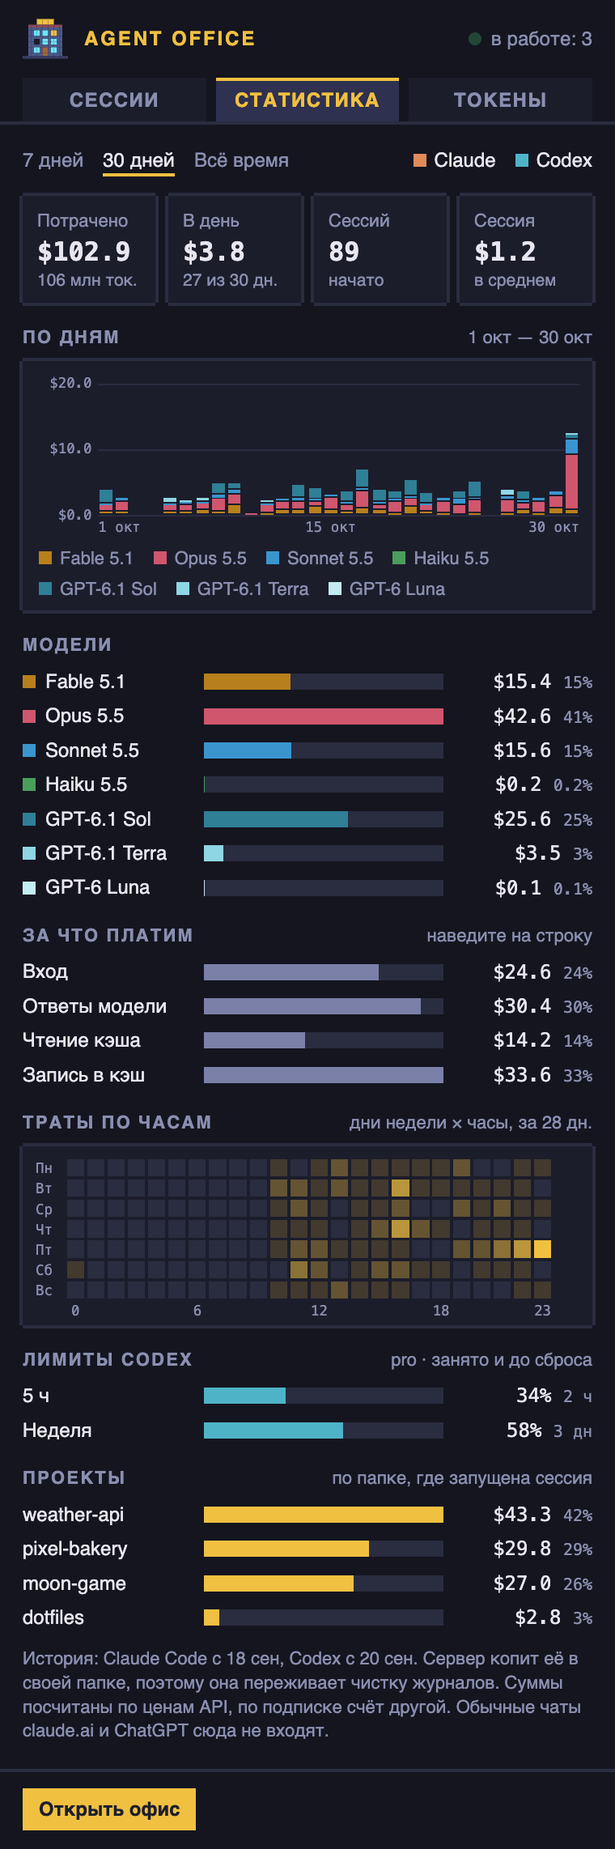
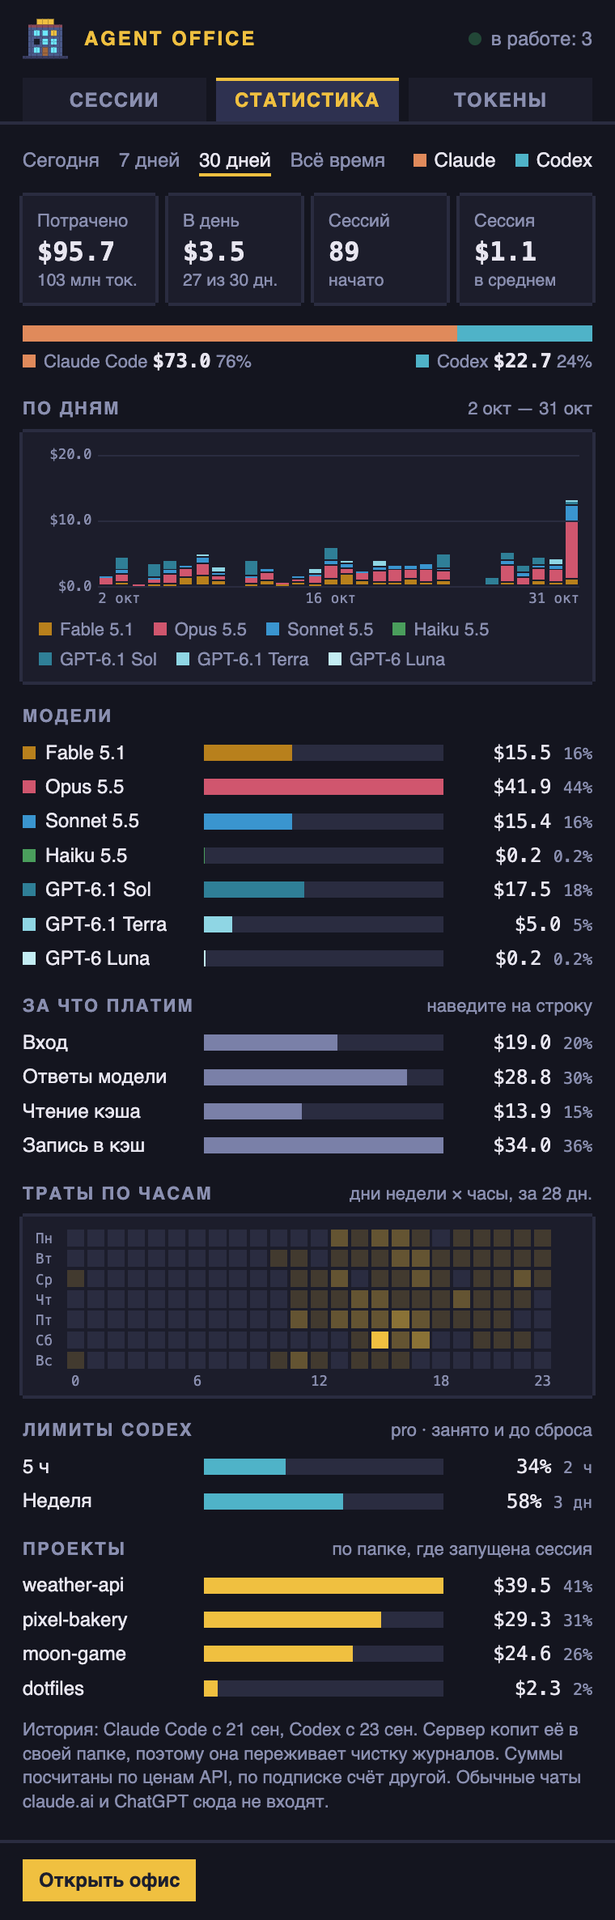
feat(menubar): show the spend split for the chosen period
The split bar hid itself whenever one provider had spent nothing today,
and the stats tab had none, so the comparison seemed to vanish. It now
always shows on the sessions tab and sits under the stats tiles, following
the period. The report sends a daily split that ignores the provider
filter, and the period is counted by the calendar, because the filter cuts
the days list at that provider's first day.

Changed region(s): [[0.0303, 0.0, 0.9684, 0.9947], [0.0303, 0.0, 0.0908, 0.0311], [0.9079, 0.0, 0.9382, 0.0311]]

diff --git a/src/menubar.ts b/src/menubar.ts
@@ -37,7 +37,7 @@ type Day = {
 
 type RateWindow = { minutes: number; used: number; resets: number }
 type Limits = { at?: string; plan?: string; windows?: RateWindow[] }
-type Stats = { since: string; last24: number; days: Day[]; hours: [string, number, number][]; first?: Partial<Record<Provider, string>>; limits?: Limits }
+type Stats = { since: string; last24: number; days: Day[]; hours: [string, number, number][]; first?: Partial<Record<Provider, string>>; limits?: Limits; split?: Record<string, Partial<Record<Provider, number>>> }
 
 type Bridge = { postMessage(msg: unknown): void }
 const bridge: Bridge | undefined = (window as any).webkit?.messageHandlers?.ao
@@ -76,6 +76,7 @@ function tokens(n: number): string {
 const MONTHS = ['янв', 'фев', 'мар', 'апр', 'мая', 'июн', 'июл', 'авг', 'сен', 'окт', 'ноя', 'дек']
 const WEEKDAYS = ['Пн', 'Вт', 'Ср', 'Чт', 'Пт', 'Сб', 'Вс']
 const parse = (day: string) => new Date(day + 'T00:00:00')
+const dayKey = (d: Date) => `${d.getFullYear()}-${String(d.getMonth() + 1).padStart(2, '0')}-${String(d.getDate()).padStart(2, '0')}`
 const short = (day: string) => { const d = parse(day); return `${d.getDate()} ${MONTHS[d.getMonth()]}` }
 const weekday = (day: string) => (parse(day).getDay() + 6) % 7
 function ago(t: number): string {
@@ -211,13 +212,27 @@ function sessionRow(s: Session, lamp: boolean): string {
     <span class="money">${money2}</span></button>`
 }
 
-// who spent today: shown once there is something to compare
-function splitBar(): string {
+// who spent what: always both, a provider at zero is an answer too
+function splitBar(claude: number, codex: number): string {
+  const all = claude + codex
+  const width = (usd: number) => all ? (usd / all) * 100 : 0
+  return `<div class="split"><i style="width:${width(claude)}%;background:var(--claude)"></i><i style="width:${width(codex)}%;background:var(--codex)"></i></div>
+    <div class="splits"><span><i style="background:var(--claude)"></i>Claude Code <b>${money(claude)}</b> ${pct(claude, all)}</span><span><i style="background:var(--codex)"></i>Codex <b>${money(codex)}</b> ${pct(codex, all)}</span></div>`
+}
+function splitToday(): string {
   const of = (p: Provider) => sessions.filter(s => s.provider === p).reduce((a, s) => a + (s.today ?? 0), 0)
-  const claude = of('claude'), codex = of('codex'), all = claude + codex
-  if (!claude || !codex) return ''
-  return `<div class="split"><i style="width:${(claude / all) * 100}%;background:var(--claude)"></i><i style="width:${(codex / all) * 100}%;background:var(--codex)"></i></div>
-    <div class="splits"><span><i style="background:var(--claude)"></i>Claude Code <b>${money(claude)}</b></span><span><i style="background:var(--codex)"></i>Codex <b>${money(codex)}</b></span></div>`
+  return splitBar(of('claude'), of('codex'))
+}
+// The chosen period counted by the calendar: a provider filter cuts the days list
+// at that provider's first day, the comparison of both must not shrink with it.
+function splitOf(today: string): string {
+  const split = stats?.split
+  if (!split) return ''
+  const start = parse(today)
+  start.setDate(start.getDate() - Number(range) + 1)
+  const from = range === 'all' ? '' : dayKey(start)
+  const of = (p: Provider) => Object.entries(split).reduce((a, [day, share]) => day >= from ? a + (share[p] ?? 0) : a, 0)
+  return splitBar(of('claude'), of('codex'))
 }
 
 function renderSessions(): string {
@@ -230,7 +245,7 @@ function renderSessions(): string {
     <div class="tile pix"><div class="k">Сегодня</div><div class="v">${money(today)}</div><div class="s">с 00:00</div></div>
     <div class="tile pix"><div class="k">В работе</div><div class="v">${busy.length ? '<span class="lamp big"></span>' : ''}${busy.length}</div><div class="s">${busy.length ? `исполнителей: ${hands}` : 'сессий'}</div></div>
   </div>`
-  html += splitBar()
+  html += splitToday()
   const live = sessions.filter(s => s.isLive).sort((a, b) => b.working - a.working || b.at - a.at)
   const rest = sessions.filter(s => !s.isLive && ((s.today ?? 0) > 0 || s.at >= midnight))
   html += `<section><h3>АКТИВНЫЕ <span class="hint">${live.length || ''}</span></h3>`
@@ -288,7 +303,7 @@ function rangeDays(all: Day[]): Day[] {
 
 // Ranges worth a button: «30 дней» says nothing new while the whole history is shorter.
 function ranges(all: Day[]): Array<[string, string]> {
-  const out: Array<[string, string]> = [['7', '7 дней']]
+  const out: Array<[string, string]> = [['1', 'Сегодня'], ['7', '7 дней']]
   if (all.length > 30) out.push(['30', '30 дней'])
   out.push(['all', 'Всё время'])
   return out
@@ -298,7 +313,7 @@ function weeks(days: Day[]): Day[] {
   const out: Day[] = []
   for (const d of days) {
     const monday = new Date(parse(d.day).getTime() - weekday(d.day) * 86400e3)
-    const key = `${monday.getFullYear()}-${String(monday.getMonth() + 1).padStart(2, '0')}-${String(monday.getDate()).padStart(2, '0')}`
+    const key = dayKey(monday)
     let w = out[out.length - 1]
     if (!w || w.day !== key) {
       w = { day: key, usd: 0, models: {}, projects: {}, parts: [0, 0, 0, 0], tokens: 0, tokParts: [0, 0, 0, 0], tokModels: {}, tokProjects: {}, sessions: 0, started: 0 }
@@ -387,8 +402,11 @@ function legend(fams: Map<Family, { usd: number; names: Set<string> }>): string 
     .map(f => `<span><i style="background:${color(f)}"></i>${[...fams.get(f)!.names].join(', ')}</span>`).join('') + '</div>'
 }
 
+// the map follows short periods, anything longer shows the last four weeks
+const heatSpan = () => range === '1' || range === '7' ? Number(range) : 28
+
 function heatmap(all: Day[]): string {
-  const span = range === '7' ? 7 : 28
+  const span = heatSpan()
   const from = all.slice(-span)[0]?.day ?? ''
   const grid: number[][] = WEEKDAYS.map(() => Array(24).fill(0))
   for (const [day, hour, usd] of stats?.hours ?? []) {
@@ -438,16 +456,20 @@ function renderStats(): string {
     <div class="tile pix"><div class="k">Сессий</div><div class="v">${started}</div><div class="s">начато</div></div>
     <div class="tile pix"><div class="k">Сессия</div><div class="v">${money(started ? total / started : 0)}</div><div class="s">в среднем</div></div>
   </div>`
+  html += splitOf(all[all.length - 1]!.day)
 
   const fams = byFamily(days)
   const byWeek = days.length > 45
   const rows = byWeek ? weeks(days) : days
   // week over week only makes sense over the whole history, not inside a 7- or 30-day window
   const wow = range === 'all' ? weekOverWeek(all) : ''
-  html += `<section><h3>${byWeek ? 'ПО НЕДЕЛЯМ' : 'ПО ДНЯМ'} <span class="hint">${byWeek && wow ? wow : span(days)}</span></h3><div class="chart pix">`
-  html += barChart(rows, r => short(r.day), (r, i) => tipOf(byWeek ? 'неделя с ' + short(r.day) : `${WEEKDAYS[weekday(r.day)]}, ${short(r.day)}`, r,
-    (byWeek ? vsPrev(rows, i) : '') + `<br>сессий: ${r.started}`))
-  html += legend(fams) + '</div></section>'
+  // one bar across the whole popover says nothing the tiles don't
+  if (days.length > 1) {
+    html += `<section><h3>${byWeek ? 'ПО НЕДЕЛЯМ' : 'ПО ДНЯМ'} <span class="hint">${byWeek && wow ? wow : span(days)}</span></h3><div class="chart pix">`
+    html += barChart(rows, r => short(r.day), (r, i) => tipOf(byWeek ? 'неделя с ' + short(r.day) : `${WEEKDAYS[weekday(r.day)]}, ${short(r.day)}`, r,
+      (byWeek ? vsPrev(rows, i) : '') + `<br>сессий: ${r.started}`))
+    html += legend(fams) + '</div></section>'
+  }
 
   // the main chart is daily here, so the weeks get their own; by week it already shows them
   const ws = weeks(all)
@@ -468,7 +490,7 @@ function renderStats(): string {
   html += barList(partNames.map((name, i) => ({ name, usd: parts[i] ?? 0, fill: '#7a80a8', tip: `<b>${name}</b><br>${partTips[i]}` })), total)
   html += '</section>'
 
-  html += `<section><h3>ТРАТЫ ПО ЧАСАМ <span class="hint">дни недели × часы, за ${range === '7' ? 7 : 28} дн.</span></h3><div class="chart pix">${heatmap(all)}</div></section>`
+  html += `<section><h3>ТРАТЫ ПО ЧАСАМ <span class="hint">дни недели × часы, за ${heatSpan()} дн.</span></h3><div class="chart pix">${heatmap(all)}</div></section>`
   html += renderLimits()
 
   const projects = new Map<string, number>()
@@ -526,10 +548,12 @@ function renderTokens(): string {
 
   const byWeek = days.length > 45
   const rows = byWeek ? weeks(days) : days
-  html += `<section><h3>${byWeek ? 'ПО НЕДЕЛЯМ' : 'ПО ДНЯМ'} <span class="hint">${span(days)}</span></h3><div class="chart pix">`
-  html += barChart(rows, r => short(r.day), r => tokenTip(byWeek ? 'неделя с ' + short(r.day) : `${WEEKDAYS[weekday(r.day)]}, ${short(r.day)}`, r),
-    104, tokByKind, tokens)
-  html += '<div class="legend">' + KINDS.map(k => `<span><i style="background:${k.fill}"></i>${k.name}</span>`).join('') + '</div></div></section>'
+  if (days.length > 1) {
+    html += `<section><h3>${byWeek ? 'ПО НЕДЕЛЯМ' : 'ПО ДНЯМ'} <span class="hint">${span(days)}</span></h3><div class="chart pix">`
+    html += barChart(rows, r => short(r.day), r => tokenTip(byWeek ? 'неделя с ' + short(r.day) : `${WEEKDAYS[weekday(r.day)]}, ${short(r.day)}`, r),
+      104, tokByKind, tokens)
+    html += '<div class="legend">' + KINDS.map(k => `<span><i style="background:${k.fill}"></i>${k.name}</span>`).join('') + '</div></div></section>'
+  }
 
   const parts = KINDS.map((k, i) => ({ name: k.name, usd: days.reduce((a, d) => a + (d.tokParts[i] ?? 0), 0), fill: k.fill, tip: `<b>${k.name}</b><br>${k.tip}` }))
   const rest = days.reduce((a, d) => a + unsplit(d), 0)

diff --git a/web/menubar.js b/web/menubar.js
@@ -45,6 +45,7 @@ function tokens(n) {
 const MONTHS = ['янв', 'фев', 'мар', 'апр', 'мая', 'июн', 'июл', 'авг', 'сен', 'окт', 'ноя', 'дек'];
 const WEEKDAYS = ['Пн', 'Вт', 'Ср', 'Чт', 'Пт', 'Сб', 'Вс'];
 const parse = (day) => new Date(day + 'T00:00:00');
+const dayKey = (d) => `${d.getFullYear()}-${String(d.getMonth() + 1).padStart(2, '0')}-${String(d.getDate()).padStart(2, '0')}`;
 const short = (day) => { const d = parse(day); return `${d.getDate()} ${MONTHS[d.getMonth()]}`; };
 const weekday = (day) => (parse(day).getDay() + 6) % 7;
 function ago(t) {
@@ -179,14 +180,28 @@ function sessionRow(s, lamp) {
     <span class="body"><div class="t">${esc(s.title)}</div><div class="p"><em>${s.provider === 'codex' ? 'CODEX' : 'CLAUDE'}</em>${esc(s.project)} · ${state}</div></span>
     <span class="money">${money2}</span></button>`;
 }
-// who spent today: shown once there is something to compare
-function splitBar() {
+// who spent what: always both, a provider at zero is an answer too
+function splitBar(claude, codex) {
+    const all = claude + codex;
+    const width = (usd) => all ? (usd / all) * 100 : 0;
+    return `<div class="split"><i style="width:${width(claude)}%;background:var(--claude)"></i><i style="width:${width(codex)}%;background:var(--codex)"></i></div>
+    <div class="splits"><span><i style="background:var(--claude)"></i>Claude Code <b>${money(claude)}</b> ${pct(claude, all)}</span><span><i style="background:var(--codex)"></i>Codex <b>${money(codex)}</b> ${pct(codex, all)}</span></div>`;
+}
+function splitToday() {
     const of = (p) => sessions.filter(s => s.provider === p).reduce((a, s) => a + (s.today ?? 0), 0);
-    const claude = of('claude'), codex = of('codex'), all = claude + codex;
-    if (!claude || !codex)
+    return splitBar(of('claude'), of('codex'));
+}
+// The chosen period counted by the calendar: a provider filter cuts the days list
+// at that provider's first day, the comparison of both must not shrink with it.
+function splitOf(today) {
+    const split = stats?.split;
+    if (!split)
         return '';
-    return `<div class="split"><i style="width:${(claude / all) * 100}%;background:var(--claude)"></i><i style="width:${(codex / all) * 100}%;background:var(--codex)"></i></div>
-    <div class="splits"><span><i style="background:var(--claude)"></i>Claude Code <b>${money(claude)}</b></span><span><i style="background:var(--codex)"></i>Codex <b>${money(codex)}</b></span></div>`;
+    const start = parse(today);
+    start.setDate(start.getDate() - Number(range) + 1);
+    const from = range === 'all' ? '' : dayKey(start);
+    const of = (p) => Object.entries(split).reduce((a, [day, share]) => day >= from ? a + (share[p] ?? 0) : a, 0);
+    return splitBar(of('claude'), of('codex'));
 }
 function renderSessions() {
     const today = sessions.reduce((a, s) => a + (s.today ?? 0), 0);
@@ -198,7 +213,7 @@ function renderSessions() {
     <div class="tile pix"><div class="k">Сегодня</div><div class="v">${money(today)}</div><div class="s">с 00:00</div></div>
     <div class="tile pix"><div class="k">В работе</div><div class="v">${busy.length ? '<span class="lamp big"></span>' : ''}${busy.length}</div><div class="s">${busy.length ? `исполнителей: ${hands}` : 'сессий'}</div></div>
   </div>`;
-    html += splitBar();
+    html += splitToday();
     const live = sessions.filter(s => s.isLive).sort((a, b) => b.working - a.working || b.at - a.at);
     const rest = sessions.filter(s => !s.isLive && ((s.today ?? 0) > 0 || s.at >= midnight));
     html += `<section><h3>АКТИВНЫЕ <span class="hint">${live.length || ''}</span></h3>`;
@@ -250,7 +265,7 @@ function rangeDays(all) {
 }
 // Ranges worth a button: «30 дней» says nothing new while the whole history is shorter.
 function ranges(all) {
-    const out = [['7', '7 дней']];
+    const out = [['1', 'Сегодня'], ['7', '7 дней']];
     if (all.length > 30)
         out.push(['30', '30 дней']);
     out.push(['all', 'Всё время']);
@@ -260,7 +275,7 @@ function weeks(days) {
     const out = [];
     for (const d of days) {
         const monday = new Date(parse(d.day).getTime() - weekday(d.day) * 86400e3);
-        const key = `${monday.getFullYear()}-${String(monday.getMonth() + 1).padStart(2, '0')}-${String(monday.getDate()).padStart(2, '0')}`;
+        const key = dayKey(monday);
         let w = out[out.length - 1];
         if (!w || w.day !== key) {
             w = { day: key, usd: 0, models: {}, projects: {}, parts: [0, 0, 0, 0], tokens: 0, tokParts: [0, 0, 0, 0], tokModels: {}, tokProjects: {}, sessions: 0, started: 0 };
@@ -344,8 +359,10 @@ function legend(fams) {
     return '<div class="legend">' + MODELS.filter(f => fams.has(f))
         .map(f => `<span><i style="background:${color(f)}"></i>${[...fams.get(f).names].join(', ')}</span>`).join('') + '</div>';
 }
+// the map follows short periods, anything longer shows the last four weeks
+const heatSpan = () => range === '1' || range === '7' ? Number(range) : 28;
 function heatmap(all) {
-    const span = range === '7' ? 7 : 28;
+    const span = heatSpan();
     const from = all.slice(-span)[0]?.day ?? '';
     const grid = WEEKDAYS.map(() => Array(24).fill(0));
     for (const [day, hour, usd] of stats?.hours ?? []) {
@@ -397,14 +414,18 @@ function renderStats() {
     <div class="tile pix"><div class="k">Сессий</div><div class="v">${started}</div><div class="s">начато</div></div>
     <div class="tile pix"><div class="k">Сессия</div><div class="v">${money(started ? total / started : 0)}</div><div class="s">в среднем</div></div>
   </div>`;
+    html += splitOf(all[all.length - 1].day);
     const fams = byFamily(days);
     const byWeek = days.length > 45;
     const rows = byWeek ? weeks(days) : days;
     // week over week only makes sense over the whole history, not inside a 7- or 30-day window
     const wow = range === 'all' ? weekOverWeek(all) : '';
-    html += `<section><h3>${byWeek ? 'ПО НЕДЕЛЯМ' : 'ПО ДНЯМ'} <span class="hint">${byWeek && wow ? wow : span(days)}</span></h3><div class="chart pix">`;
-    html += barChart(rows, r => short(r.day), (r, i) => tipOf(byWeek ? 'неделя с ' + short(r.day) : `${WEEKDAYS[weekday(r.day)]}, ${short(r.day)}`, r, (byWeek ? vsPrev(rows, i) : '') + `<br>сессий: ${r.started}`));
-    html += legend(fams) + '</div></section>';
+    // one bar across the whole popover says nothing the tiles don't
+    if (days.length > 1) {
+        html += `<section><h3>${byWeek ? 'ПО НЕДЕЛЯМ' : 'ПО ДНЯМ'} <span class="hint">${byWeek && wow ? wow : span(days)}</span></h3><div class="chart pix">`;
+        html += barChart(rows, r => short(r.day), (r, i) => tipOf(byWeek ? 'неделя с ' + short(r.day) : `${WEEKDAYS[weekday(r.day)]}, ${short(r.day)}`, r, (byWeek ? vsPrev(rows, i) : '') + `<br>сессий: ${r.started}`));
+        html += legend(fams) + '</div></section>';
+    }
     // the main chart is daily here, so the weeks get their own; by week it already shows them
     const ws = weeks(all);
     if (range === 'all' && !byWeek && ws.length > 1) {
@@ -421,7 +442,7 @@ function renderStats() {
     html += '<section><h3>ЗА ЧТО ПЛАТИМ <span class="hint">наведите на строку</span></h3>';
     html += barList(partNames.map((name, i) => ({ name, usd: parts[i] ?? 0, fill: '#7a80a8', tip: `<b>${name}</b><br>${partTips[i]}` })), total);
     html += '</section>';
-    html += `<section><h3>ТРАТЫ ПО ЧАСАМ <span class="hint">дни недели × часы, за ${range === '7' ? 7 : 28} дн.</span></h3><div class="chart pix">${heatmap(all)}</div></section>`;
+    html += `<section><h3>ТРАТЫ ПО ЧАСАМ <span class="hint">дни недели × часы, за ${heatSpan()} дн.</span></h3><div class="chart pix">${heatmap(all)}</div></section>`;
     html += renderLimits();
     const projects = new Map();
     for (const d of days)
@@ -480,9 +501,11 @@ function renderTokens() {
   </div>`;
     const byWeek = days.length > 45;
     const rows = byWeek ? weeks(days) : days;
-    html += `<section><h3>${byWeek ? 'ПО НЕДЕЛЯМ' : 'ПО ДНЯМ'} <span class="hint">${span(days)}</span></h3><div class="chart pix">`;
-    html += barChart(rows, r => short(r.day), r => tokenTip(byWeek ? 'неделя с ' + short(r.day) : `${WEEKDAYS[weekday(r.day)]}, ${short(r.day)}`, r), 104, tokByKind, tokens);
-    html += '<div class="legend">' + KINDS.map(k => `<span><i style="background:${k.fill}"></i>${k.name}</span>`).join('') + '</div></div></section>';
+    if (days.length > 1) {
+        html += `<section><h3>${byWeek ? 'ПО НЕДЕЛЯМ' : 'ПО ДНЯМ'} <span class="hint">${span(days)}</span></h3><div class="chart pix">`;
+        html += barChart(rows, r => short(r.day), r => tokenTip(byWeek ? 'неделя с ' + short(r.day) : `${WEEKDAYS[weekday(r.day)]}, ${short(r.day)}`, r), 104, tokByKind, tokens);
+        html += '<div class="legend">' + KINDS.map(k => `<span><i style="background:${k.fill}"></i>${k.name}</span>`).join('') + '</div></div></section>';
+    }
     const parts = KINDS.map((k, i) => ({ name: k.name, usd: days.reduce((a, d) => a + (d.tokParts[i] ?? 0), 0), fill: k.fill, tip: `<b>${k.name}</b><br>${k.tip}` }));
     const rest = days.reduce((a, d) => a + unsplit(d), 0);
     if (rest > 0)

diff --git a/server.py b/server.py
@@ -1752,18 +1752,21 @@ class Ledger:
 
     def report(self, now=None, provider=None):
         """Дни подряд от первой записи до сегодня; почасово — последние HEAT_DAYS дней.
-        provider — только Claude Code или только Codex."""
+        provider — только Claude Code или только Codex; split — кто сколько потратил
+        по дням, его фильтр не трогает: там сравниваются оба."""
         from datetime import date, timedelta
         now = now or time.time()
         since_24 = time.strftime('%Y-%m-%dT%H', time.localtime(now - 23 * 3600))
         heat_from = day_of((now - HEAT_DAYS * 86400) * 1000)
-        days, hours, last24, first = {}, [], 0.0, {}
+        days, hours, last24, first, split = {}, [], 0.0, {}, {}
         for hour, projects in sorted(self.hours.items()):
             spent = 0.0
             for project, models in projects.items():
                 for model, cell in models.items():
                     who = provider_of(model)
                     first.setdefault(who, hour[:10])
+                    share = split.setdefault(hour[:10], {})
+                    share[who] = share.get(who, 0.0) + sum(cell[:4])
                     if provider and who != provider:
                         continue
                     row = days.setdefault(hour[:10], blank_day(hour[:10]))
@@ -1801,7 +1804,8 @@ class Ledger:
             for k in ('models', 'projects'):
                 row[k] = {name: round(usd, 4) for name, usd in row[k].items()}
         return {'since': out[0]['day'] if out else '', 'last24': round(last24, 4), 'days': out, 'hours': hours,
-                'first': first, 'limits': self.rate}
+                'first': first, 'limits': self.rate,
+                'split': {day: {who: round(usd, 4) for who, usd in share.items()} for day, share in split.items()}}
 
 
 LEDGER = None

diff --git a/tests/test_server.py b/tests/test_server.py
@@ -914,6 +914,17 @@ class LedgerCodexTest(unittest.TestCase):
         self.assertEqual(set(ledger.report()['first']), {'claude', 'codex'})
         self.assertEqual(ledger.report()['first']['codex'], server.day_of(local_day(0) * 1000))
 
+    def test_split_shows_both_providers_whatever_the_filter(self):
+        self.write(self.session())
+        with open(os.path.join(self.claude, '-work-app', 'sid.jsonl'), 'w') as f:
+            f.write(assistant('m1', ts=iso(local_day(-2) + 3600)))
+        ledger = self.scan()
+        today, earlier = server.day_of(local_day(0) * 1000), server.day_of(local_day(-2) * 1000)
+        price = round(server.message_cost('claude-sonnet-5-5', {'input_tokens': 1000, 'output_tokens': 100}), 4)
+        for report in (ledger.report(), ledger.report(provider='claude'), ledger.report(provider='codex')):
+            self.assertEqual(report['split'][earlier], {'claude': price})
+            self.assertEqual(report['split'][today], {'codex': round(self.usd, 4)})
+
     def test_review_thread_pays_but_is_not_a_session(self):
         self.write(meta(thread='child', source={'subagent': {'other': 'guardian'}}, parent_thread_id=THREAD)
                    + context('codex-auto-review', ts=self.at) + usage_record(ts=self.at))

diff --git a/CHANGELOG.md b/CHANGELOG.md
@@ -11,10 +11,12 @@ and this project adheres to [Semantic Versioning](https://semver.org/spec/v2.0.0
 - Серверная: этаж под кабинетом показывает фоновые команды руководителя, их время и итог, при большом числе команд стойки уплотняются. Пока команда идёт, сессия не остывает, а в списке подписано «фон N»
 - Общее время сессии: сколько шла работа руководителей, агентов и фоновых команд, параллельная работа считается один раз. Видно в офисе, в шапке, в списке сессий и в окошке строки меню
 - Табличка на столе: если подержать курсор 3 секунды, появится время агента сейчас и всего за задачу, число вызовов и предмет стола на полке, в стиле выбранного офиса
+- Окошко строки меню: шкала трат Claude Code и Codex с суммами и долями стоит под цифрами в «Статистике» и меняется вместе с периодом. Появился период «Сегодня»
 
 ### Changed
 
 - Часы агента в ячейке считают реальное время работы, паузы между ходами не входят
+- Шкала трат на вкладке «Сессии» видна всегда, даже если один из провайдеров сегодня ничего не потратил
 
 ### Fixed
 

diff --git a/README.md b/README.md
@@ -149,8 +149,8 @@ python3 server.py
 
 | Вкладка | Что там |
 |---|---|
-| **Сессии** | Траты с полуночи, кто сейчас в работе, активные и прошедшие сессии с общим временем. Клик открывает офис |
-| **Статистика** | 7 дней, 30 дней или всё время, по провайдеру: по дням и моделям, за что платим, карта по часам, лимиты Codex, папки |
+| **Сессии** | Траты с полуночи и шкала Claude Code и Codex, кто сейчас в работе, активные и прошедшие сессии с общим временем. Клик открывает офис |
+| **Статистика** | Сегодня, 7 дней, 30 дней или всё время, по провайдеру: шкала Claude Code и Codex за период, по дням и моделям, за что платим, карта по часам, лимиты Codex, папки |
 | **Токены** | То же в токенах |
 
 Правый клик: перезапуск сервера, лог, автозапуск, выход.
